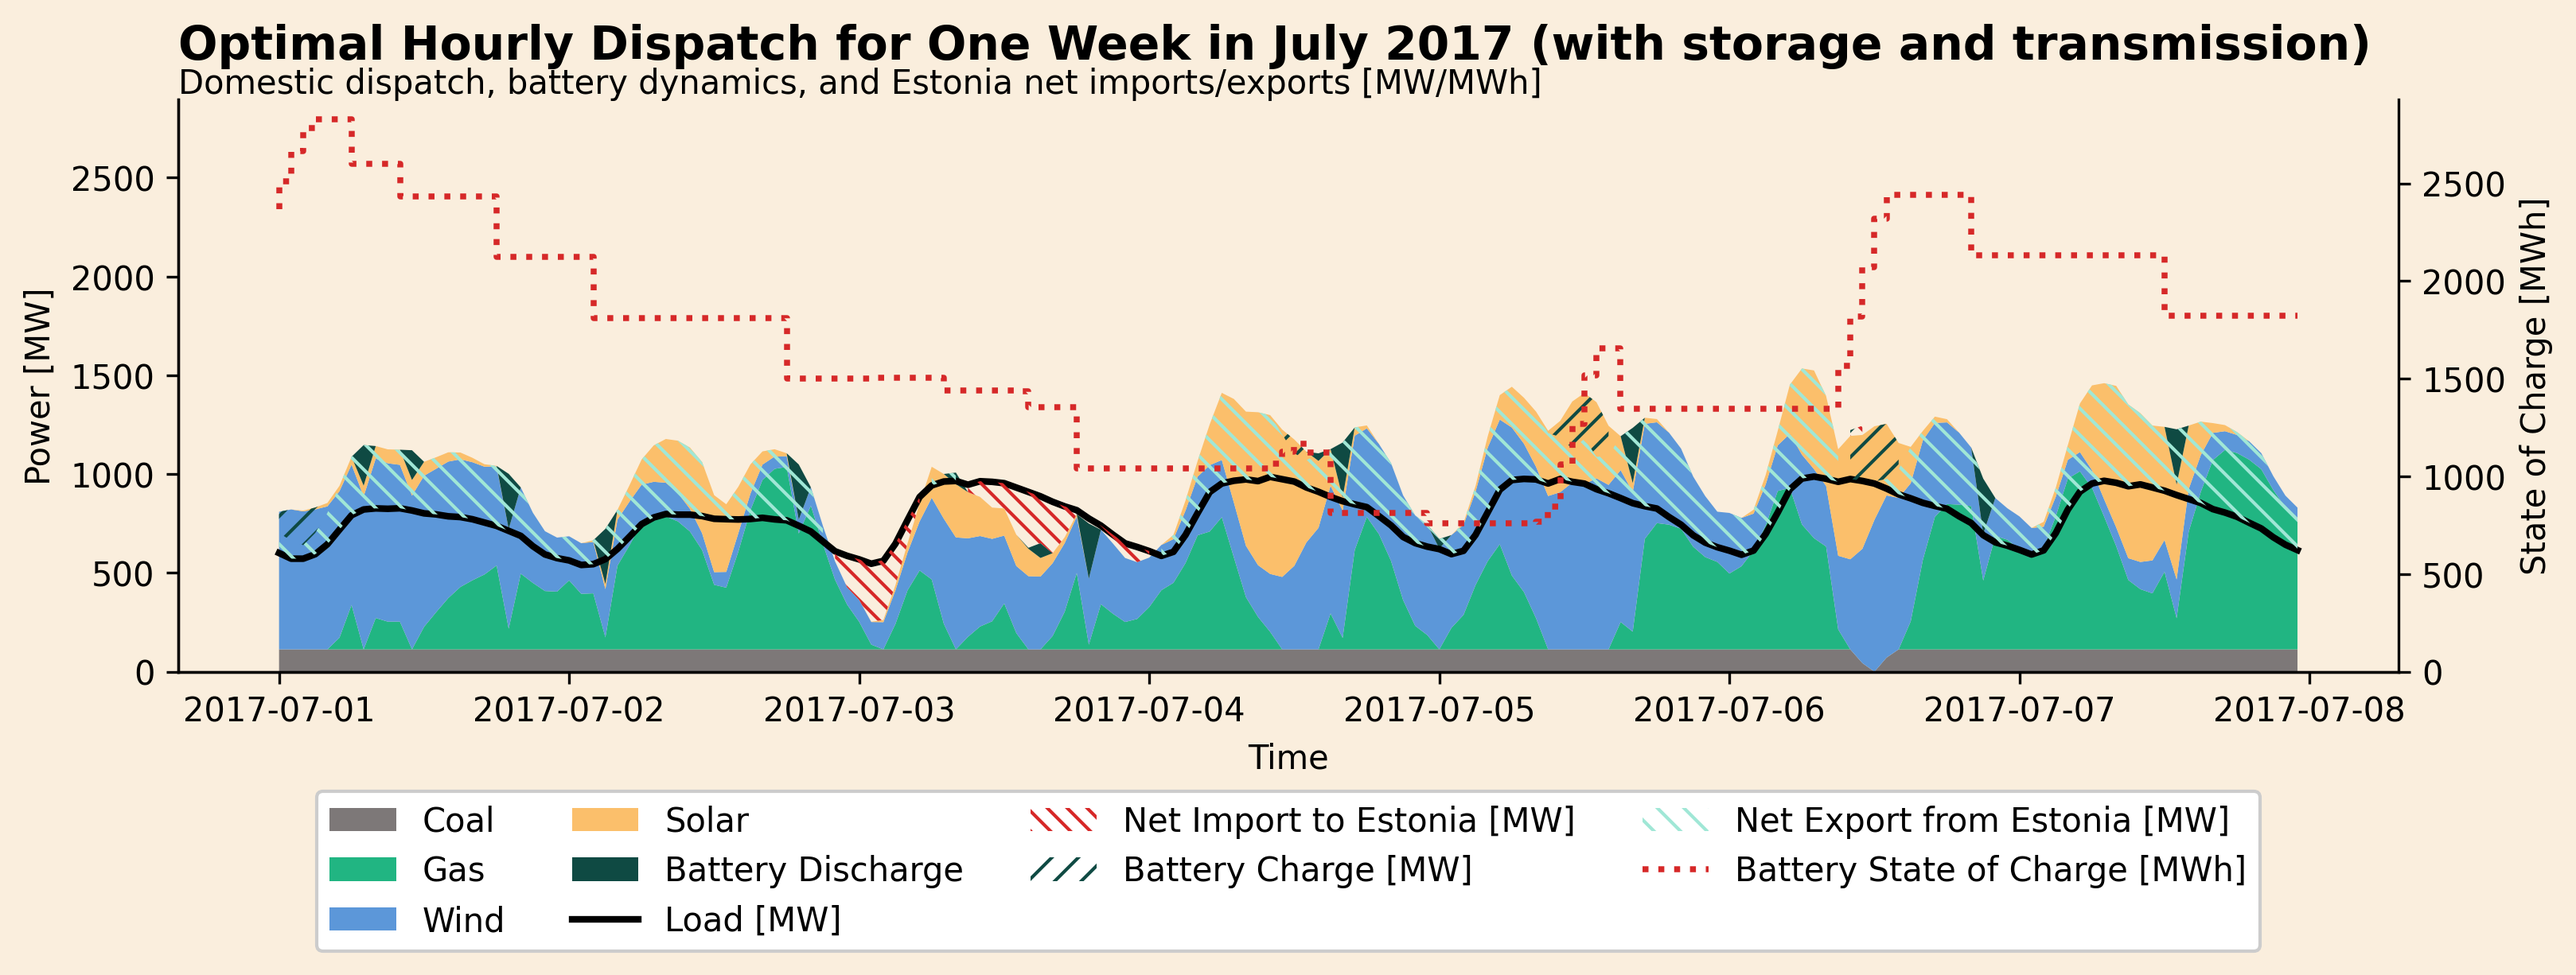
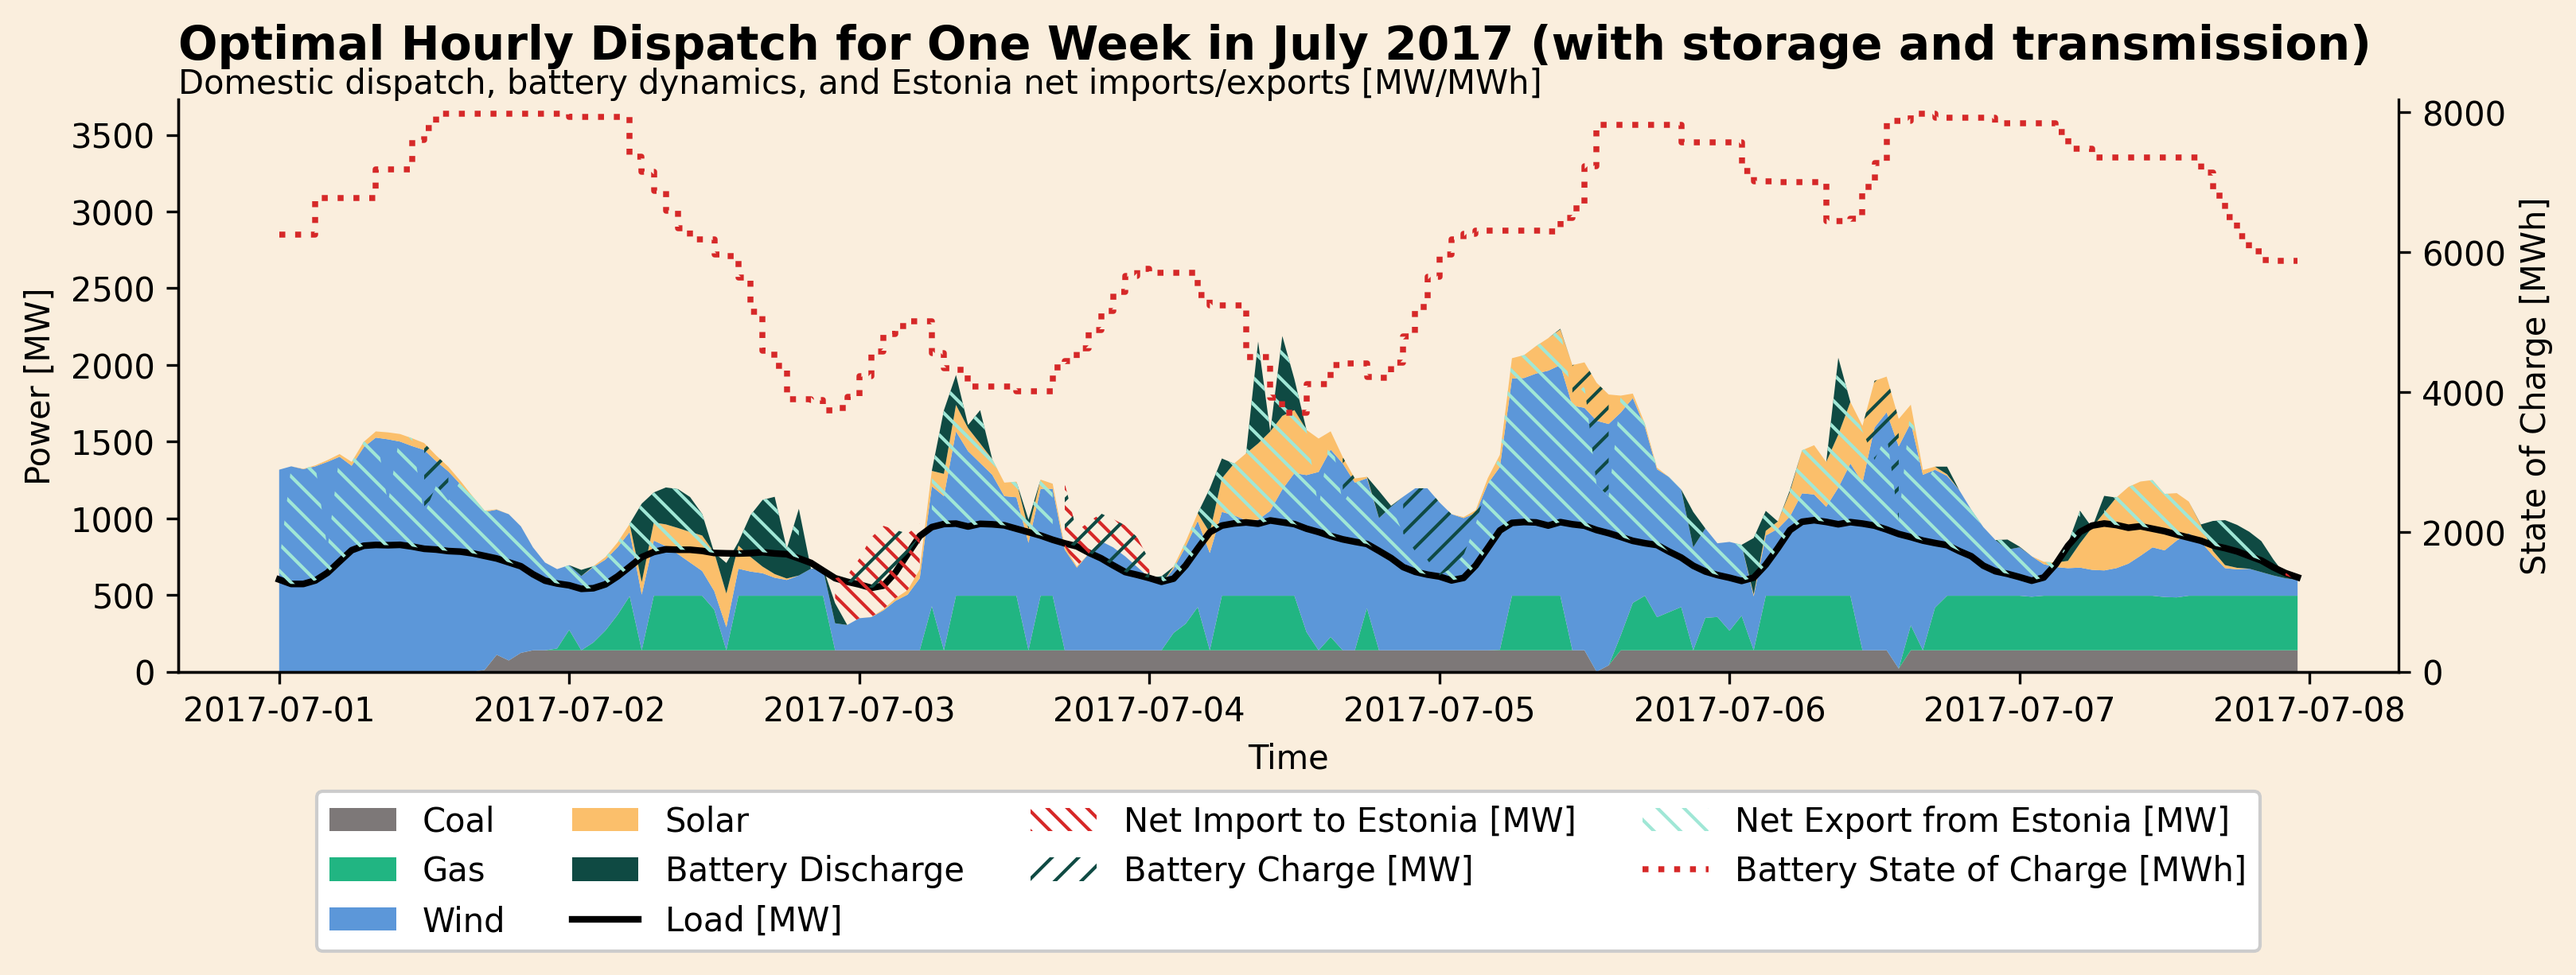
h2 constraints, no dispatch during normal conditions, too expensive, but under co2 limits it does work

diff --git a/network.py b/network.py
@@ -14,7 +14,7 @@ class Network():
         self.solar_cf = solar_cf
         self.hours = hours
     
-    def build_network(self, storage=False, transmission=False, external=False, gas=False, co2_limit=False, limit=None):
+    def build_network(self, storage=False, transmission=False, external=False, gas=False, h2=False, co2_limit=False, limit=None):
 
         # PyPSA requires timezone-naive snapshots.
         snapshots = pd.DatetimeIndex(self.hours)
@@ -104,6 +104,8 @@ class Network():
             self.add_external()
         if gas:
             self.add_gas_network()
+        if h2:
+            self.add_h2_network_with_conversion()
         if co2_limit:
             self.add_co2_limit(limit)
 
@@ -121,11 +123,13 @@ class Network():
         efficiency_dispatch = 0.9
 
         max_hours = 12  # energy capacity = power * hours
+        battery_p_nom_max = self.load["EE"].mean() # 2x average load in MW
 
         self.network.add("StorageUnit",
                         "Battery Storage Estonia",
                         bus="Estonia",
                         p_nom_extendable=True,
+                        p_nom_max=battery_p_nom_max,
                         capital_cost=capital_cost,
                         marginal_cost=marginal_cost,
                         efficiency_store=efficiency_store,
@@ -241,6 +245,21 @@ class Network():
                     capital_cost = capital_cost_wind,
                     p_max_pu=self.wind_cf['FI'].values)
         
+                # OCGT Power Plant
+        # https://www.sciencedirect.com/science/article/pii/S0196890419309835?via%3Dihub
+        capital_cost_OCGT = annuity(25,0.07)*560_000*(1+0.033) # in €/MW
+        fuel_cost = 21.6 # in €/MWh_th
+        efficiency_gas = 0.39 # MWh_elec/MWh_th
+        marginal_cost_OCGT = fuel_cost/efficiency_gas # in €/MWh_el
+        self.network.add("Generator",
+                    "OCGT Finland",
+                    bus="Finland",
+                    p_nom_extendable=True,
+                    carrier="Gas",
+                    efficiency=efficiency_gas,
+                    capital_cost = capital_cost_OCGT,
+                    marginal_cost = marginal_cost_OCGT)
+        
         
         
         # https://www.sciencedirect.com/science/article/pii/S0378775312014759?via%3Dihub
@@ -253,7 +272,8 @@ class Network():
             carrier="Hydro",
             p_nom_extendable=True,
             capital_cost=capital_cost_hydro,
-            marginal_cost=marginal_cost_hydro
+            marginal_cost=marginal_cost_hydro,
+            p_nom_max = 16000
         )
         
         # https://www.sciencedirect.com/science/article/pii/S0196890419309835?via%3Dihub
@@ -265,6 +285,21 @@ class Network():
                     carrier="Wind", 
                     capital_cost = capital_cost_wind,
                     p_max_pu=self.wind_cf['SE'].values)
+        
+        # OCGT Power Plant
+        # https://www.sciencedirect.com/science/article/pii/S0196890419309835?via%3Dihub
+        capital_cost_OCGT = annuity(25,0.07)*560_000*(1+0.033) # in €/MW
+        fuel_cost = 21.6 # in €/MWh_th
+        efficiency_gas = 0.39 # MWh_elec/MWh_th
+        marginal_cost_OCGT = fuel_cost/efficiency_gas # in €/MWh_el
+        self.network.add("Generator",
+                    "OCGT Sweden",
+                    bus="Sweden",
+                    p_nom_extendable=True,
+                    carrier="Gas",
+                    efficiency=efficiency_gas,
+                    capital_cost = capital_cost_OCGT,
+                    marginal_cost = marginal_cost_OCGT)
         
         
         # Ignite Fired Power Plant
@@ -293,6 +328,21 @@ class Network():
                     carrier="Wind", 
                     capital_cost = capital_cost_wind,
                     p_max_pu=self.wind_cf['LV'].values)
+        
+                # OCGT Power Plant
+        # https://www.sciencedirect.com/science/article/pii/S0196890419309835?via%3Dihub
+        capital_cost_OCGT = annuity(25,0.07)*560_000*(1+0.033) # in €/MW
+        fuel_cost = 21.6 # in €/MWh_th
+        efficiency_gas = 0.39 # MWh_elec/MWh_th
+        marginal_cost_OCGT = fuel_cost/efficiency_gas # in €/MWh_el
+        self.network.add("Generator",
+                    "OCGT Latvia",
+                    bus="Latvia",
+                    p_nom_extendable=True,
+                    carrier="Gas",
+                    efficiency=efficiency_gas,
+                    capital_cost = capital_cost_OCGT,
+                    marginal_cost = marginal_cost_OCGT)
     
     def add_co2_limit(self, limit):
         self.network.add(
@@ -329,14 +379,35 @@ class Network():
                 )
 
         # Conversion assumptions (linear links).
-        electrolyzer_efficiency = 0.70   # MWh_H2 / MWh_el
-        h2_turbine_efficiency = 0.50     # MWh_el / MWh_H2
+        electrolyzer_efficiency = 0.80   # MWh_H2 / MWh_el
+        h2_turbine_efficiency = 0.58     # MWh_el / MWh_H2
         pipeline_efficiency = 1.00       # linear/lossless first approximation
 
         # Cost assumptions (order-of-magnitude placeholders, EUR/MW-year).
-        capital_cost_electrolyzer = annuity(20, 0.07) * 700_000 * (1 + 0.033)
-        capital_cost_h2_turbine = annuity(25, 0.07) * 900_000 * (1 + 0.033)
-        h2_storage_capital_cost = annuity(30, 0.07) * 20_000 * (1 + 0.033)  # EUR/MWh_H2-year
+        # --- Hydrogen system CAPEX assumptions (2017-based, EU-consistent) ---
+
+        # Sources:
+        # IEA (2019) - The Future of Hydrogen:
+        # https://www.iea.org/reports/the-future-of-hydrogen
+        #
+        # World Bank (2020) - Green Hydrogen:
+        # https://documents.worldbank.org/en/publication/documents-reports/documentdetail/green-hydrogen-in-developing-countries
+        #
+        # Joule (2019) - Hydrogen storage cost assumption (~1000 USD/kg H2):
+        # https://www.sciencedirect.com/science/article/pii/S2542435119303228
+        #
+        # IRENA (2020) - Green Hydrogen:
+        # https://www.irena.org/publications/2020/Sep/Green-hydrogen
+
+        capital_cost_electrolyzer = annuity(20, 0.07) * 600_000 * (1 + 0.033)   # €/MW-year
+
+        capital_cost_h2_turbine = annuity(25, 0.07) * 700_000 * (1 + 0.033)     # €/MW-year
+        # (hydrogen gas turbine, based on 500–900 USD/kW range)
+
+        h2_storage_capital_cost = annuity(30, 0.07) * 25_000 * (1 + 0.033)      # €/MWh_H2-year
+        # (~1000 USD/kg H2 ≈ 25,000 €/MWh)
+        
+        capital_cost_h2_pipeline = 1 #annuity(40, 0.07) * 100_000 * (1 + 0.033)
 
         # Add electricity -> H2 and H2 -> electricity converters in each country.
         for country in countries:
@@ -370,7 +441,7 @@ class Network():
                 bus=f"{country} h2",
                 carrier="H2",
                 e_nom_extendable=True,
-                e_cyclic=True,
+                e_cyclic=False,
                 capital_cost=h2_storage_capital_cost,
                 marginal_cost=0,
             )
@@ -385,7 +456,8 @@ class Network():
             p_nom_extendable=True,
             p_min_pu=-1,
             efficiency=pipeline_efficiency,
-            marginal_cost=0,
+            capital_cost=capital_cost_h2_pipeline,
+            marginal_cost=0.0001,
         )
 
         self.network.add(
@@ -397,7 +469,8 @@ class Network():
             p_nom_extendable=True,
             p_min_pu=-1,
             efficiency=pipeline_efficiency,
-            marginal_cost=0,
+            capital_cost=capital_cost_h2_pipeline,
+            marginal_cost=0.0001,
         )
 
         self.network.add(
@@ -409,7 +482,8 @@ class Network():
             p_nom_extendable=True,
             p_min_pu=-1,
             efficiency=pipeline_efficiency,
-            marginal_cost=0,
+            capital_cost=capital_cost_h2_pipeline,
+            marginal_cost=0.0001,
         )
 
         self.network.add(
@@ -421,7 +495,8 @@ class Network():
             p_nom_extendable=True,
             p_min_pu=-1,
             efficiency=pipeline_efficiency,
-            marginal_cost=0,
+            capital_cost=capital_cost_h2_pipeline,
+            marginal_cost=0.0001,
         )
     
     def add_gas_network(self):
@@ -655,8 +730,7 @@ class Network():
             dispatch = pd.concat([dispatch, link_dispatch], axis=1)
         
         if not self.network.storage_units.empty:
-            storage_capacities = self.network.storage_units_t.state_of_charge.max().copy()
-            storage_capacities = storage_capacities.rename("p_nom_opt")
+            storage_capacities = self.network.storage_units.p_nom_opt.copy()
             capacacities = pd.concat([capacacities, storage_capacities], ignore_index=False)
 
             charge = self.network.storage_units_t.p_store.copy()
@@ -689,6 +763,8 @@ if __name__ == "__main__":
     print(f"Load series length: {len(load)}")
     print(f"Wind CF series length: {len(wind_cf)}")
     print(f"Solar CF series length: {len(solar_cf)}")
+
+    print(4 * load["EE"].mean())
     
     hours = pd.date_range('2017-01-01 00:00','2017-12-31 23:00',freq='h')
     

diff --git a/main.py b/main.py
@@ -5,12 +5,12 @@ from network import Network
 from helper import *
 
 ### SECTION CONTROLS ###
-RUN_A_C = False # with and without storage single node 
+RUN_A_C = True # with and without storage single node 
 RUN_D = True # + transmission 
-RUN_E = False # imbalances
-RUN_F = False # CO2 limit analysis
-RUN_G = False # + gas network
-RUN_H = False # CO2 constraint
+RUN_E = True # imbalances
+RUN_F = True # CO2 limit analysis
+RUN_G = True # H2 network
+RUN_H = True # CO2 constraint
 
 ### LOADING DATA ###
 
@@ -228,11 +228,11 @@ if RUN_F:
     plot_capacities_vs_co2_limits(scenario_results, f"Installed Capacities under Different CO2 Emission Limits Estonia, 2017", show=False, save=True)
 
 if RUN_G:
-    # g) Add gas transmission network
+    # g) Add H2 transmission network
 
     network = Network(load,wind_cf, solar_cf, hours=hours)
 
-    network.build_network(storage=True, transmission=True, external=True, gas=True)
+    network.build_network(storage=True, transmission=True, external=True, h2=True)
 
     network.optimize_network()
 
@@ -240,7 +240,7 @@ if RUN_G:
 
     soc_max = capacities.get('Battery Storage Estonia', 0)
 
-    scenario_label = "with storage, transmission, and gas network"
+    scenario_label = "with storage, transmission, and H2 network"
 
     shared_power_axis_max = compute_shared_power_axis_max(dispatch, load_est)
 
@@ -263,60 +263,52 @@ if RUN_G:
         soc_axis_max=soc_max,
     )
 
-    plot_capacity_mix_by_country_gas(capacities, f"Optimal Installed Capacity Mix by Country 2017 ({scenario_label})", show=False, save=True)
-    plot_annual_energy_mix_gas(dispatch, f"Annual Energy Mix for Estonia 2017 ({scenario_label})", show=False, save=True)
     plot_transmission_network(dispatch, load, f"Transmission Network Flows 2017 ({scenario_label})", show=False, save=True)
     plot_country_balance(dispatch, load, f"Country Energy Balance 2017 ({scenario_label})", show=False, save=True)
     plot_duration_curve(dispatch, f"Duration Curve for 2017 ({scenario_label})")
 
-    plot_storage_operation(
-        january_week,
-        dispatch[january_week_mask],
-        f"Battery Storage Operation for One Week in January 2017 ({scenario_label})",
-    )
-    plot_storage_operation(
-        july_week,
-        dispatch[july_week_mask],
-        f"Battery Storage Operation for One Week in July 2017 ({scenario_label})",
+    plot_capacity_mix_by_country(
+        capacities,
+        f"Optimal Installed Capacity Mix by Country 2017 ({scenario_label})",
+        show=False,
+        save=True,
     )
 
     plot_total_transmission_comparison(dispatch, title="Total Transported Energy in 2017", show=False, save=True)
-    plot_gas_pipeline_flows(dispatch, title="Gas Pipeline Flows in 2017", show=False, save=True)
 
-    gas_columns = [
-        "FIN-SWE Gas Pipeline",
-        "EST-FIN Gas Pipeline",
-        "EST-SWE Gas Pipeline",
-        "EST-LAT Gas Pipeline",
-    ]
-    electric_columns = [
-        "FIN-SWE",
-        "EST-FIN",
-        "EST-SWE",
-        "EST-LAT",
-    ]
-
-    gas_pipeline_efficiency = 1.0
-    gas_to_power_efficiency = 0.39
-
-    gas_total = dispatch[[col for col in gas_columns if col in dispatch.columns]].abs().sum().sum() / 1000
-    electric_total = dispatch[[col for col in electric_columns if col in dispatch.columns]].abs().sum().sum() / 1000
-    gas_equivalent_electricity = gas_total * gas_pipeline_efficiency * gas_to_power_efficiency
+    h2_pipeline_capacities = network.network.links.loc[
+        network.network.links.index.str.contains("H2 Pipeline"),
+        "p_nom_opt",
+    ].sum()
 
     print("--------------------------------------------------------")
-    if 'electric_total_d' in globals():
-        print(f"Total electricity transported in case d: {electric_total_d:.1f} GWh_el")
-    print(f"Total gas transported: {gas_total:.1f} GWh_th")
-    print(f"Gas transported as electricity-equivalent output: {gas_equivalent_electricity:.1f} GWh_el")
-    print(f"Total electricity transported: {electric_total:.1f} GWh_el")
-    print(f"Raw gas-to-electricity transport ratio: {gas_total / electric_total:.2f}")
+    print(f"Total H2 pipeline capacity installed: {h2_pipeline_capacities:.1f} MW")
     print("--------------------------------------------------------")
+
 
 if RUN_H:
     # h) Add carbon emission constraints
-    network.build_network(storage=True, transmission=True, external=True, gas=True, co2_limit=True, limit=28_000_000 * 0.1)
+
+    network = Network(load,wind_cf, solar_cf, hours=hours)
+    network.build_network(storage=True, transmission=True, external=True, h2=True, co2_limit=True, limit=28_000_000 * 0.2)
 
     network.optimize_network()
+
+    dispatch, capacities = network.save_results()
+
+    scenario_label = "with storage, transmission, H2, and CO2 constraint"
+
+    plot_capacity_mix_by_country(capacities, f"Optimal Installed Capacity Mix by Country 2017 ({scenario_label})", show=False, save=True)
+    
+    h2_pipeline_capacities = network.network.links.loc[
+    network.network.links.index.str.contains("H2 Pipeline"),
+    "p_nom_opt",
+        ].sum()
+
+    print("--------------------------------------------------------")
+    print(f"Total H2 pipeline capacity installed: {h2_pipeline_capacities:.1f} MW")
+    print("--------------------------------------------------------")
+
 
     co2_price = network.network.global_constraints.mu
     print("--------------------------------------------------------")

diff --git a/plotter.py b/plotter.py
@@ -825,6 +825,7 @@ def plot_capacity_mix_by_country(capacities, title, show=False, save=True):
         ("Nuclear", colors[8]),
         ("Coal", colors[15]),
         ("Gas", colors[14]),
+        ("H2", colors[10]),
         ("Hydro", colors[11]),
         ("Wind", colors[13]),
         ("Solar", colors[12]),
@@ -867,6 +868,8 @@ def plot_capacity_mix_by_country(capacities, title, show=False, save=True):
         # Classify technology
         if "Battery Storage" in asset_name:
             df_plot.loc[country, "Battery"] += p_nom
+        elif "Electrolyzer" in asset_name or "H2 Turbine" in asset_name or "H2 Storage" in asset_name:
+            df_plot.loc[country, "H2"] += p_nom
         elif "Wind" in asset_name:
             df_plot.loc[country, "Wind"] += p_nom
         elif "Solar" in asset_name:
